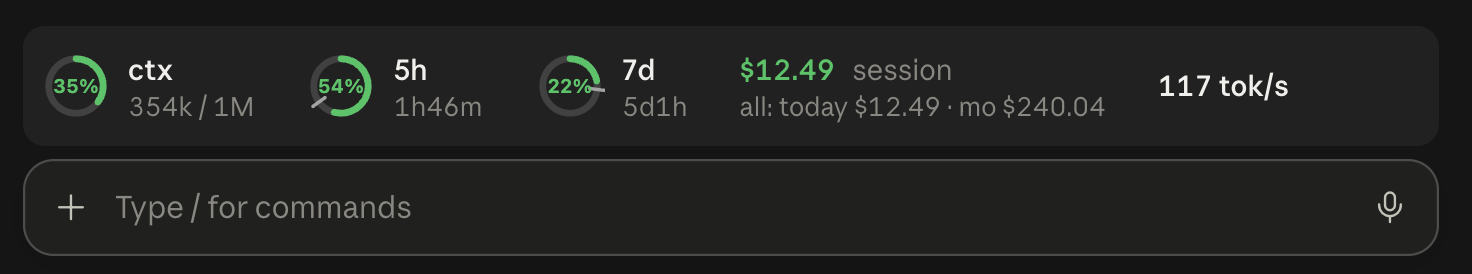
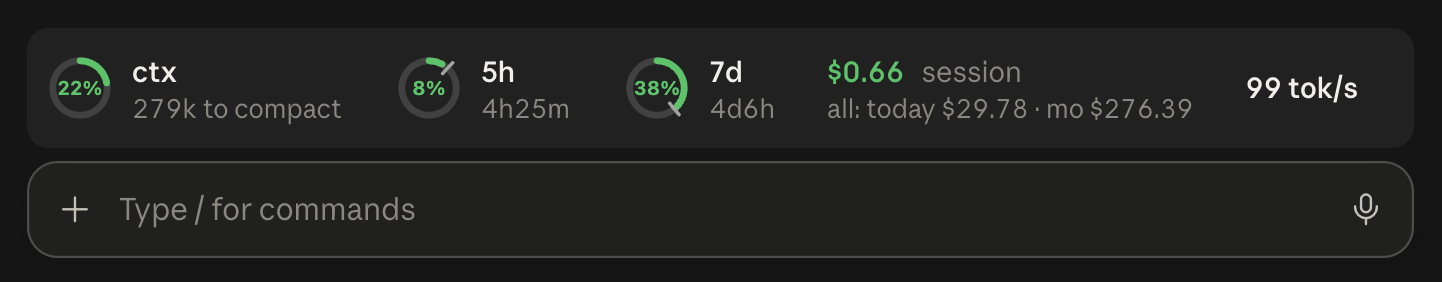
docs: update the README screenshot to 0.6.0 and note the full SHA for releases

diff --git a/RELEASING.md b/RELEASING.md
@@ -43,7 +43,7 @@ for p in hooks types tests tsconfig.json .claude-plugin/plugin.json; do diff -rq
 | 扫描 | 对要提交的文件跑一次密钥扫描（`scan_secrets` 工具或 `gitleaks detect`），再人工看一遍有没有内网地址或别人的数据 | 无发现 |
 | 提交 | 列出确切文件清单后再 `git commit`；commit message 用英文，`feat:` / `fix:` / `docs:` 前缀，新版本号写在标题括号里 | — |
 | 推送 | `git push origin main`，单独执行 | GitHub 上能看到新提交 |
-| GitHub release | `scripts/release-notes.sh X.Y.Z > <notes 文件>` 生成中英双语 notes，再 `gh release create vX.Y.Z --target <发版提交 sha> --title "vX.Y.Z" --notes-file <notes 文件>`；它会在远端建 tag，之后 `git fetch --tags` 同步到本地。notes 文件放仓库外（如 `outputs/` 或临时目录） | releases 页面显示新版本、标为 Latest，正文有 English 和 中文 两段；README 徽章随后更新 |
+| GitHub release | `scripts/release-notes.sh X.Y.Z > <notes 文件>` 生成中英双语 notes，再 `gh release create vX.Y.Z --target "$(git rev-parse <发版提交>)" --title "vX.Y.Z" --notes-file <notes 文件>`（`--target` 要完整 40 位 SHA，短 SHA 会被 GitHub 以 422 拒绝）；它会在远端建 tag，之后 `git fetch --tags` 同步到本地。notes 文件放仓库外（如 `outputs/` 或临时目录） | releases 页面显示新版本、标为 Latest，正文有 English 和 中文 两段；README 徽章随后更新 |
 | 更新本机 | `claude plugin marketplace update claude-mod-usage-statusbar`，再 `claude plugin update usage-rings@claude-mod-usage-statusbar`，然后在会话里 `/reload-plugins` 或开新会话 | `claude plugin list` 显示新版本 |
 
 ## 注意
